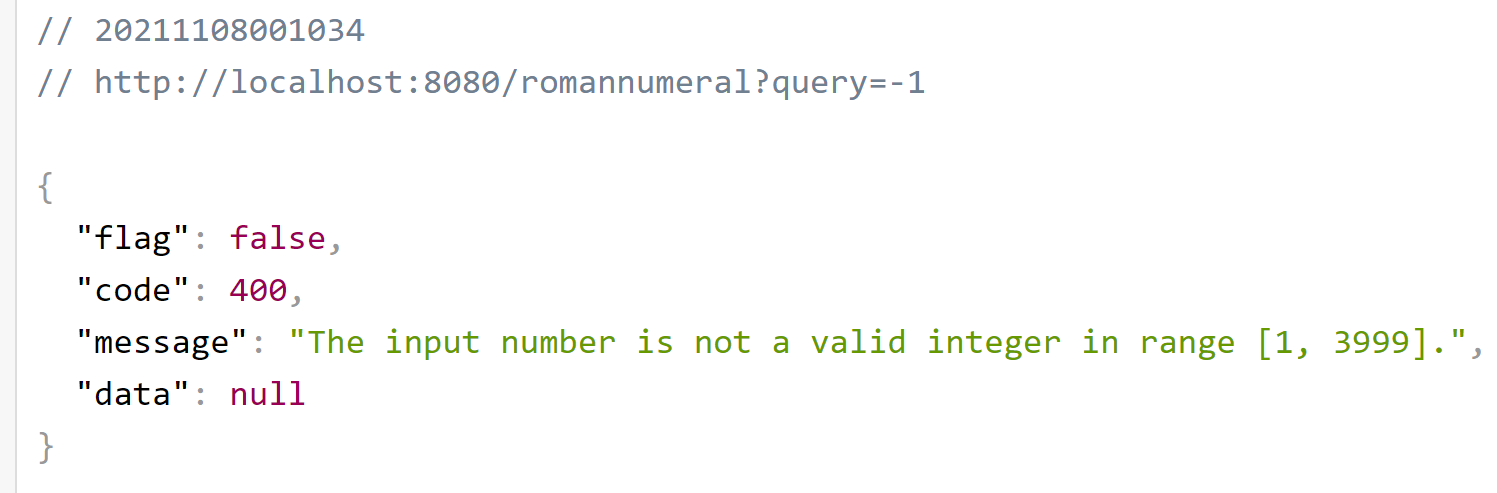
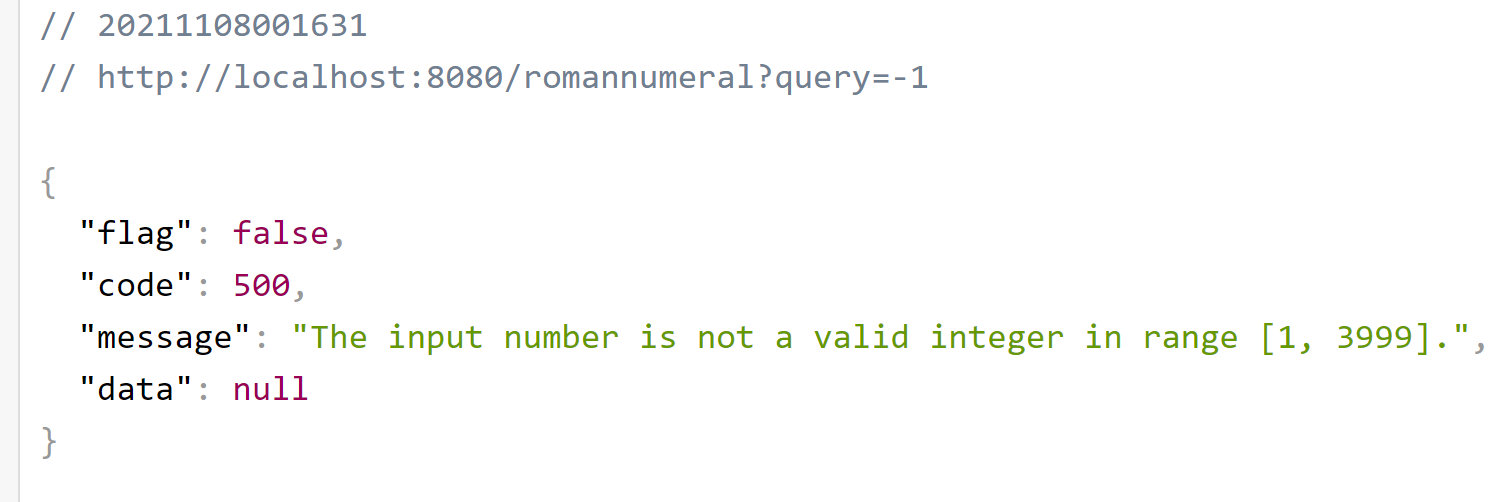
update error status

diff --git a/src/main/java/com/xing/controller/exceptionhandlers/AppExceptionHandler.java b/src/main/java/com/xing/controller/exceptionhandlers/AppExceptionHandler.java
@@ -16,8 +16,8 @@ public class AppExceptionHandler extends ResponseEntityExceptionHandler {
 
     @ExceptionHandler(InvalidNumberException.class)
     protected ResponseEntity<Object> handleInvalidNumberError(RuntimeException ex, WebRequest request) {
-        Result ret = new Result(false, 400, ex.getMessage());
-        return handleExceptionInternal(ex, ret, new HttpHeaders(), HttpStatus.BAD_REQUEST, request);
+        Result ret = new Result(false, 500, ex.getMessage());
+        return handleExceptionInternal(ex, ret, new HttpHeaders(), HttpStatus.INTERNAL_SERVER_ERROR, request);
     }
 
     @ExceptionHandler(RuntimeException.class)

diff --git a/src/test/java/com/xing/controller/RomanNumberControllerTest.java b/src/test/java/com/xing/controller/RomanNumberControllerTest.java
@@ -41,7 +41,7 @@ public class RomanNumberControllerTest {
         ResultActions resultActions = mockMvc.perform(MockMvcRequestBuilders
                 .get("/romannumeral")
                 .param("query", "-12"));
-        resultActions.andExpect(MockMvcResultMatchers.status().isBadRequest());
+        resultActions.andExpect(MockMvcResultMatchers.status().is5xxServerError());
         String response = resultActions.andReturn().getResponse().getContentAsString();
         Result ret = objectMapper.readValue(response, Result.class);
         Assert.assertEquals(ErrorMessages.OUT_OF_RANGE_NUMBER,  ret.getMessage());
